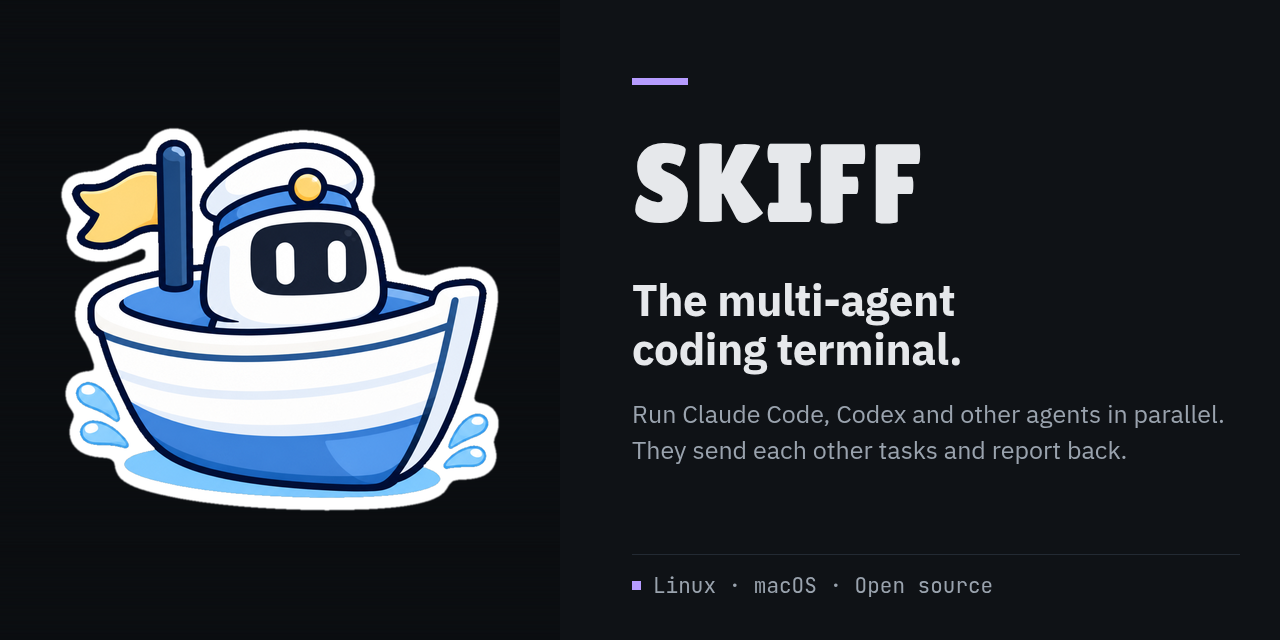
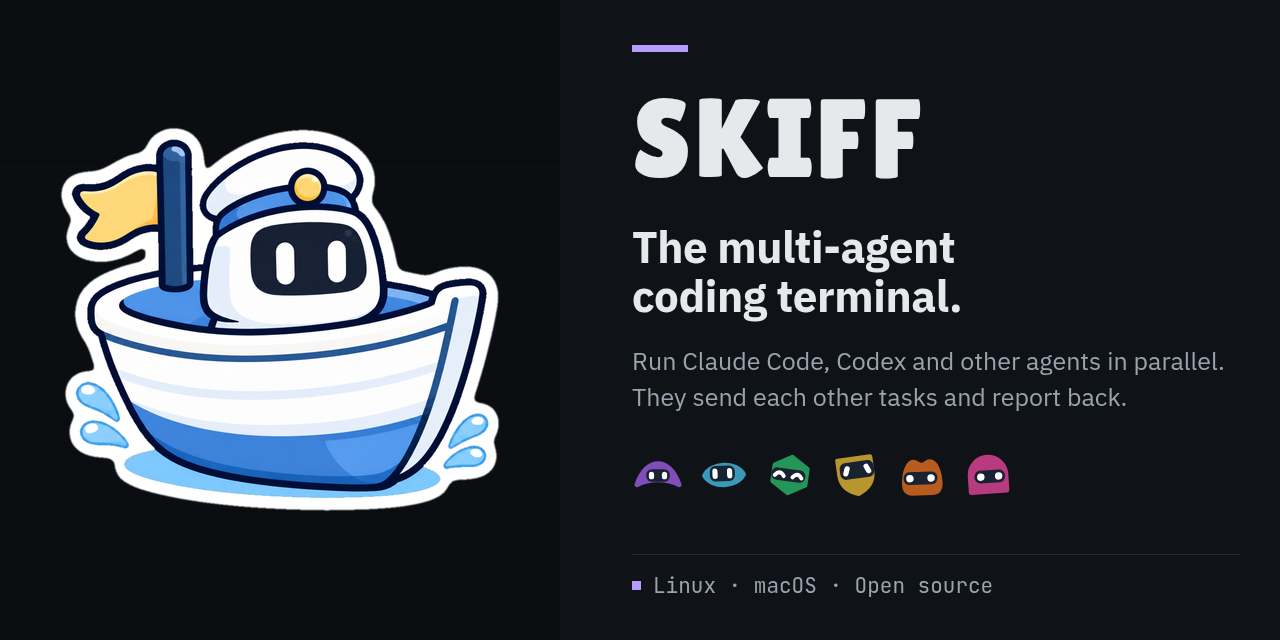
Home: the crew row of blinking Skipper faces in the hero and the social image
tools/crew.mjs writes Admiral and five Skippers, each in a theme's main
color, from tools/skipper-avatar.mjs (the app's generator at skiff 9dafcc2,
types stripped). The blink and glance CSS is the app's, still off under
prefers-reduced-motion. social-preview.png re-rendered, og:image ?v=5.

Changed region(s): [[0.4688, 0.125, 0.9688, 0.7812], [0.5, 0.0625, 0.5312, 0.0938]]

diff --git a/index.html b/index.html
@@ -10,7 +10,7 @@
 <meta property="og:type" content="website">
 <meta property="og:site_name" content="Skiff">
 <meta property="og:url" content="https://skiff.solutionscay.com/">
-<meta property="og:image" content="https://skiff.solutionscay.com/social-preview.png?v=4">
+<meta property="og:image" content="https://skiff.solutionscay.com/social-preview.png?v=5">
 <meta property="og:image:width" content="1280">
 <meta property="og:image:height" content="640">
 <meta property="og:image:alt" content="Skiff: the multi-agent coding terminal">
@@ -20,7 +20,7 @@
 <link rel="preconnect" href="https://fonts.googleapis.com">
 <link rel="preconnect" href="https://fonts.gstatic.com" crossorigin>
 <link href="https://fonts.googleapis.com/css2?family=IBM+Plex+Sans:wght@400;500;600;700&family=JetBrains+Mono:wght@400;600&family=Lilita+One&display=swap" rel="stylesheet">
-<link rel="stylesheet" href="site.css?v=cd16bebc">
+<link rel="stylesheet" href="site.css?v=b3203374">
 <script src="https://analytics.ahrefs.com/analytics.js" data-key="WBND0Nn9GdlmCPxIRT8H3Q" async></script>
 <script type="application/ld+json">
 {"@context":"https://schema.org","@type":"SoftwareApplication","name":"Skiff","description":"The multi-agent coding terminal. Run Claude Code, Codex and other agents in parallel on Linux and macOS. They send each other tasks and report back.","applicationCategory":"DeveloperApplication","operatingSystem":"Linux, macOS","license":"https://opensource.org/licenses/MIT","url":"https://skiff.solutionscay.com/","downloadUrl":"https://skiff.solutionscay.com/download/","offers":{"@type":"Offer","price":"0","priceCurrency":"USD"},"publisher":{"@type":"Organization","name":"Solutions Cay LLC","url":"https://solutionscay.com/"}}
@@ -58,6 +58,16 @@
     <div>
       <h1>The multi-agent coding terminal.</h1>
       <p>Run Claude Code, Codex and other agents in parallel. They send each other tasks and report back.</p>
+      <!-- crew -->
+      <div class="crew" role="img" aria-label="The Skiff crew: Admiral and five Skippers">
+        <span class="skipper-face" style="--pc:#b06cff"><svg viewBox="0 0 32 32" aria-hidden="true" style="--blink:4.1s;--blink-delay:-4.4s;--blink-anim:sk-blink;--glance:17s;--glance-delay:-1.2s;--glance-dx:1px"><path d="M3 22c3-9 8-13 13-13s10 4 13 13c-4-2-8.5-3-13-3s-9 1-13 3z" style="fill:color-mix(in srgb, var(--pc, var(--project-default)) 72%, #000);stroke:color-mix(in srgb, var(--pc, var(--project-default)) 72%, #000)" stroke-width="3" stroke-linejoin="round"/><rect x="8.8" y="12.4" width="14.4" height="7.8" rx="3.5" fill="#192230"/><g class="sk-look"><g class="sk-eyes" fill="#fff"><rect x="10.4" y="14" width="3.2" height="4.6" rx="1.6"/><rect x="18.4" y="14" width="3.2" height="4.6" rx="1.6"/></g></g></svg></span>
+        <span class="skipper-face" style="--pc:#4fd4ff"><svg viewBox="0 0 32 32" aria-hidden="true" style="--blink:4.4s;--blink-delay:-2.2s;--blink-anim:sk-blink;--glance:16s;--glance-delay:-13.7s;--glance-dx:-1px"><g transform="rotate(-2 16 16)"><path d="M4 16C8 8 24 8 28 16 24 24 8 24 4 16z" style="fill:color-mix(in srgb, var(--pc, var(--project-default)) 72%, #000);stroke:color-mix(in srgb, var(--pc, var(--project-default)) 72%, #000)" stroke-width="3" stroke-linejoin="round"/><rect x="7.300000000000001" y="10.2" width="15.399999999999999" height="9.600000000000001" rx="3.5" fill="#192230"/><g class="sk-look"><g class="sk-eyes" fill="#fff"><g transform="translate(10.5 15)"><rect x="-1.6" y="-3.2" width="3.2" height="6.4" rx="1.6"/></g><g transform="translate(19.5 15)"><rect x="-1.6" y="-3.2" width="3.2" height="6.4" rx="1.6"/></g></g></g></g></svg></span>
+        <span class="skipper-face" style="--pc:#34d07c"><svg viewBox="0 0 32 32" aria-hidden="true" style="--blink:7s;--blink-delay:-1.8s;--blink-anim:sk-blink2;--glance:14s;--glance-delay:-13s;--glance-dx:-1px"><g transform="rotate(8 16 16)"><path d="M16 5l10 6v10l-10 6-10-6V11z" style="fill:color-mix(in srgb, var(--pc, var(--project-default)) 72%, #000);stroke:color-mix(in srgb, var(--pc, var(--project-default)) 72%, #000)" stroke-width="3" stroke-linejoin="round"/><rect x="4.5" y="12.399999999999999" width="21" height="7.6000000000000005" rx="3.5" fill="#192230"/><g class="sk-look"><g class="sk-eyes" fill="#fff"><g transform="translate(9.5 16)"><path d="M-2.8 1.2q2.8-4 5.6 0" fill="none" stroke="#fff" stroke-width="2.4" stroke-linecap="round"/></g><g transform="translate(20.5 16)"><path d="M-2.8 1.2q2.8-4 5.6 0" fill="none" stroke="#fff" stroke-width="2.4" stroke-linecap="round"/></g></g></g></g></svg></span>
+        <span class="skipper-face" style="--pc:#ffcf3f"><svg viewBox="0 0 32 32" aria-hidden="true" style="--blink:4.4s;--blink-delay:-6.1s;--blink-anim:sk-blink;--glance:12s;--glance-delay:-8.8s;--glance-dx:-1px"><g transform="rotate(-8 16 16)"><path d="M6 6h20v9c0 6.5-4.5 10.5-10 12.5C10.5 25.5 6 21.5 6 15z" style="fill:color-mix(in srgb, var(--pc, var(--project-default)) 72%, #000);stroke:color-mix(in srgb, var(--pc, var(--project-default)) 72%, #000)" stroke-width="3" stroke-linejoin="round"/><rect x="6.5" y="7.85" width="21" height="10.3" rx="3.5" fill="#192230"/><g class="sk-look"><g class="sk-eyes" fill="#fff"><g transform="translate(10.5 13)"><rect x="-1.6" y="-3.2" width="3.2" height="6.4" rx="1.6" transform="rotate(22)"/></g><g transform="translate(23.5 13)"><rect x="-1.6" y="-3.2" width="3.2" height="6.4" rx="1.6" transform="rotate(-22)"/></g></g></g></g></svg></span>
+        <span class="skipper-face" style="--pc:#ff7f2a"><svg viewBox="0 0 32 32" aria-hidden="true" style="--blink:4.6s;--blink-delay:-6.7s;--blink-anim:sk-blink;--glance:13s;--glance-delay:-16.4s;--glance-dx:-1px"><g transform="rotate(-2 16 16)"><path d="M5 22c0-8 2.5-14 6-14 2 0 3 2 5 2s3-2 5-2c3.5 0 6 6 6 14 0 3-1.5 5-4.5 5h-13C6.5 27 5 25 5 22z" style="fill:color-mix(in srgb, var(--pc, var(--project-default)) 72%, #000);stroke:color-mix(in srgb, var(--pc, var(--project-default)) 72%, #000)" stroke-width="3" stroke-linejoin="round"/><rect x="4.6" y="14.1" width="20.8" height="7.8" rx="3.5" fill="#192230"/><g class="sk-look"><g class="sk-eyes" fill="#fff"><g transform="translate(8.5 18)"><circle r="2.3"/></g><g transform="translate(21.5 18)"><circle r="2.3"/></g></g></g></g></svg></span>
+        <span class="skipper-face" style="--pc:#ff52b0"><svg viewBox="0 0 32 32" aria-hidden="true" style="--blink:5.6s;--blink-delay:-0.9s;--blink-anim:sk-blink;--glance:16s;--glance-delay:-6.9s;--glance-dx:1px"><g transform="rotate(-4 16 16)"><path d="M5 26V16a11 11 0 0 1 22 0v10z" style="fill:color-mix(in srgb, var(--pc, var(--project-default)) 72%, #000);stroke:color-mix(in srgb, var(--pc, var(--project-default)) 72%, #000)" stroke-width="3" stroke-linejoin="round"/><rect x="7.6" y="13.1" width="18.8" height="7.8" rx="3.5" fill="#192230"/><g class="sk-look"><g class="sk-eyes" fill="#fff"><g transform="translate(11.5 17)"><circle r="2.3"/></g><g transform="translate(22.5 17)"><circle r="2.3"/></g></g></g></g></svg></span>
+      </div>
+      <!-- /crew -->
       <div class="get">
         <a class="btn main" href="download/">Download</a>
         <a class="btn" href="https://github.com/solutionscay/skiff">Source on GitHub</a>

diff --git a/tools/social-preview.html b/tools/social-preview.html
@@ -19,10 +19,13 @@
   .mascot img { display: block; }
   .copy { flex: 1; padding: 0 40px 24px 72px; display: flex; flex-direction: column; }
   .text { flex: 1; display: flex; flex-direction: column; justify-content: center; padding-bottom: 8px; }
-  .rule { width: 56px; height: 7px; background: #b69cff; margin-bottom: 42px; }
-  .mark { font-family: "Lilita One", sans-serif; font-weight: 400; font-size: 112px; line-height: 1; letter-spacing: 0.02em; text-transform: uppercase; color: #e6e8eb; margin-bottom: 36px; }
+  .rule { width: 56px; height: 7px; background: #b69cff; margin-bottom: 30px; }
+  .mark { font-family: "Lilita One", sans-serif; font-weight: 400; font-size: 112px; line-height: 1; letter-spacing: 0.02em; text-transform: uppercase; color: #e6e8eb; margin-bottom: 28px; }
   h1 { font-size: 44px; line-height: 1.12; font-weight: 700; letter-spacing: -0.01em; color: #e6e8eb; margin-bottom: 22px; }
   p { font-size: 25px; line-height: 1.45; font-weight: 400; color: #9aa3ae; }
+  .crew { display: flex; gap: 14px; margin-top: 34px; }
+  .crew .skipper-face { width: 52px; height: 52px; }
+  .crew svg { display: block; width: 100%; height: 100%; }
   .foot { height: 62px; border-top: 1px solid #232a33; display: flex; align-items: center; gap: 12px; font-family: "JetBrains Mono", ui-monospace, monospace; font-size: 21px; color: #9aa3ae; }
   .foot i { width: 9px; height: 9px; background: #b69cff; }
 </style>
@@ -35,6 +38,16 @@
     <div class="mark">Skiff</div>
     <h1>The multi-agent<br>coding terminal.</h1>
     <p>Run Claude Code, Codex and other agents in parallel.<br>They send each other tasks and report back.</p>
+    <!-- crew -->
+    <div class="crew" role="img" aria-label="The Skiff crew: Admiral and five Skippers">
+      <span class="skipper-face" style="--pc:#b06cff"><svg viewBox="0 0 32 32" aria-hidden="true" style="--blink:4.1s;--blink-delay:-4.4s;--blink-anim:sk-blink;--glance:17s;--glance-delay:-1.2s;--glance-dx:1px"><path d="M3 22c3-9 8-13 13-13s10 4 13 13c-4-2-8.5-3-13-3s-9 1-13 3z" style="fill:color-mix(in srgb, var(--pc, var(--project-default)) 72%, #000);stroke:color-mix(in srgb, var(--pc, var(--project-default)) 72%, #000)" stroke-width="3" stroke-linejoin="round"/><rect x="8.8" y="12.4" width="14.4" height="7.8" rx="3.5" fill="#192230"/><g class="sk-look"><g class="sk-eyes" fill="#fff"><rect x="10.4" y="14" width="3.2" height="4.6" rx="1.6"/><rect x="18.4" y="14" width="3.2" height="4.6" rx="1.6"/></g></g></svg></span>
+      <span class="skipper-face" style="--pc:#4fd4ff"><svg viewBox="0 0 32 32" aria-hidden="true" style="--blink:4.4s;--blink-delay:-2.2s;--blink-anim:sk-blink;--glance:16s;--glance-delay:-13.7s;--glance-dx:-1px"><g transform="rotate(-2 16 16)"><path d="M4 16C8 8 24 8 28 16 24 24 8 24 4 16z" style="fill:color-mix(in srgb, var(--pc, var(--project-default)) 72%, #000);stroke:color-mix(in srgb, var(--pc, var(--project-default)) 72%, #000)" stroke-width="3" stroke-linejoin="round"/><rect x="7.300000000000001" y="10.2" width="15.399999999999999" height="9.600000000000001" rx="3.5" fill="#192230"/><g class="sk-look"><g class="sk-eyes" fill="#fff"><g transform="translate(10.5 15)"><rect x="-1.6" y="-3.2" width="3.2" height="6.4" rx="1.6"/></g><g transform="translate(19.5 15)"><rect x="-1.6" y="-3.2" width="3.2" height="6.4" rx="1.6"/></g></g></g></g></svg></span>
+      <span class="skipper-face" style="--pc:#34d07c"><svg viewBox="0 0 32 32" aria-hidden="true" style="--blink:7s;--blink-delay:-1.8s;--blink-anim:sk-blink2;--glance:14s;--glance-delay:-13s;--glance-dx:-1px"><g transform="rotate(8 16 16)"><path d="M16 5l10 6v10l-10 6-10-6V11z" style="fill:color-mix(in srgb, var(--pc, var(--project-default)) 72%, #000);stroke:color-mix(in srgb, var(--pc, var(--project-default)) 72%, #000)" stroke-width="3" stroke-linejoin="round"/><rect x="4.5" y="12.399999999999999" width="21" height="7.6000000000000005" rx="3.5" fill="#192230"/><g class="sk-look"><g class="sk-eyes" fill="#fff"><g transform="translate(9.5 16)"><path d="M-2.8 1.2q2.8-4 5.6 0" fill="none" stroke="#fff" stroke-width="2.4" stroke-linecap="round"/></g><g transform="translate(20.5 16)"><path d="M-2.8 1.2q2.8-4 5.6 0" fill="none" stroke="#fff" stroke-width="2.4" stroke-linecap="round"/></g></g></g></g></svg></span>
+      <span class="skipper-face" style="--pc:#ffcf3f"><svg viewBox="0 0 32 32" aria-hidden="true" style="--blink:4.4s;--blink-delay:-6.1s;--blink-anim:sk-blink;--glance:12s;--glance-delay:-8.8s;--glance-dx:-1px"><g transform="rotate(-8 16 16)"><path d="M6 6h20v9c0 6.5-4.5 10.5-10 12.5C10.5 25.5 6 21.5 6 15z" style="fill:color-mix(in srgb, var(--pc, var(--project-default)) 72%, #000);stroke:color-mix(in srgb, var(--pc, var(--project-default)) 72%, #000)" stroke-width="3" stroke-linejoin="round"/><rect x="6.5" y="7.85" width="21" height="10.3" rx="3.5" fill="#192230"/><g class="sk-look"><g class="sk-eyes" fill="#fff"><g transform="translate(10.5 13)"><rect x="-1.6" y="-3.2" width="3.2" height="6.4" rx="1.6" transform="rotate(22)"/></g><g transform="translate(23.5 13)"><rect x="-1.6" y="-3.2" width="3.2" height="6.4" rx="1.6" transform="rotate(-22)"/></g></g></g></g></svg></span>
+      <span class="skipper-face" style="--pc:#ff7f2a"><svg viewBox="0 0 32 32" aria-hidden="true" style="--blink:4.6s;--blink-delay:-6.7s;--blink-anim:sk-blink;--glance:13s;--glance-delay:-16.4s;--glance-dx:-1px"><g transform="rotate(-2 16 16)"><path d="M5 22c0-8 2.5-14 6-14 2 0 3 2 5 2s3-2 5-2c3.5 0 6 6 6 14 0 3-1.5 5-4.5 5h-13C6.5 27 5 25 5 22z" style="fill:color-mix(in srgb, var(--pc, var(--project-default)) 72%, #000);stroke:color-mix(in srgb, var(--pc, var(--project-default)) 72%, #000)" stroke-width="3" stroke-linejoin="round"/><rect x="4.6" y="14.1" width="20.8" height="7.8" rx="3.5" fill="#192230"/><g class="sk-look"><g class="sk-eyes" fill="#fff"><g transform="translate(8.5 18)"><circle r="2.3"/></g><g transform="translate(21.5 18)"><circle r="2.3"/></g></g></g></g></svg></span>
+      <span class="skipper-face" style="--pc:#ff52b0"><svg viewBox="0 0 32 32" aria-hidden="true" style="--blink:5.6s;--blink-delay:-0.9s;--blink-anim:sk-blink;--glance:16s;--glance-delay:-6.9s;--glance-dx:1px"><g transform="rotate(-4 16 16)"><path d="M5 26V16a11 11 0 0 1 22 0v10z" style="fill:color-mix(in srgb, var(--pc, var(--project-default)) 72%, #000);stroke:color-mix(in srgb, var(--pc, var(--project-default)) 72%, #000)" stroke-width="3" stroke-linejoin="round"/><rect x="7.6" y="13.1" width="18.8" height="7.8" rx="3.5" fill="#192230"/><g class="sk-look"><g class="sk-eyes" fill="#fff"><g transform="translate(11.5 17)"><circle r="2.3"/></g><g transform="translate(22.5 17)"><circle r="2.3"/></g></g></g></g></svg></span>
+    </div>
+    <!-- /crew -->
   </div>
   <div class="foot"><i></i>Linux · macOS · Open source</div>
 </div>

diff --git a/site.css b/site.css
@@ -52,6 +52,17 @@ code { font-family: var(--mono); font-size: 0.88em; color: var(--text); }
 .hero h1 { margin: 0 0 16px; color: var(--text); font-size: clamp(32px, 5vw, 48px); line-height: 1.12; font-weight: 700; letter-spacing: -0.01em; text-wrap: balance; }
 .hero p { margin: 0 0 8px; max-width: 38em; font-size: 17px; text-wrap: pretty; }
 .hero .mascot { width: 200px; height: 200px; }
+/* The crew: Admiral and five Skippers, from tools/crew.mjs. The blink and
+   glance are the app's (apps/desktop/src/styles/skippers.css). */
+.crew { margin-top: 24px; display: flex; flex-wrap: wrap; gap: 12px; }
+.crew .skipper-face { width: 44px; height: 44px; line-height: 0; }
+.crew svg { display: block; width: 100%; height: 100%; }
+.skipper-face .sk-eyes { transform-box: fill-box; transform-origin: center; animation: var(--blink-anim, sk-blink) var(--blink, 5s) var(--blink-delay, 0s) infinite steps(1, end); }
+.skipper-face .sk-look { animation: sk-glance var(--glance, 16s) var(--glance-delay, 0s) infinite steps(1, end); }
+@keyframes sk-blink { 0% { transform: scaleY(1); } 97.4% { transform: scaleY(0.1); } 100% { transform: scaleY(1); } }
+@keyframes sk-blink2 { 0% { transform: scaleY(1); } 93.6% { transform: scaleY(0.1); } 95.4% { transform: scaleY(1); } 97.4% { transform: scaleY(0.1); } 100% { transform: scaleY(1); } }
+@keyframes sk-glance { 0% { transform: translateX(0); } 93% { transform: translateX(var(--glance-dx, 1px)); } 98% { transform: translateX(0); } }
+@media (prefers-reduced-motion: reduce) { .skipper-face :is(.sk-eyes, .sk-look) { animation: none; } }
 .get { margin-top: 28px; display: flex; flex-wrap: wrap; gap: 8px; }
 .btn { height: var(--row); padding: 0 18px; display: inline-flex; align-items: center; gap: 8px; border: 1px solid var(--rule-strong); background: var(--bg-raised); color: var(--text); font: 600 14px var(--font); text-decoration: none; }
 .btn:hover { background: color-mix(in srgb, var(--accent) 22%, var(--bg-raised)); }

diff --git a/guides/index.html b/guides/index.html
@@ -10,7 +10,7 @@
 <meta property="og:type" content="website">
 <meta property="og:site_name" content="Skiff">
 <meta property="og:url" content="https://skiff.solutionscay.com/guides/">
-<meta property="og:image" content="https://skiff.solutionscay.com/social-preview.png?v=4">
+<meta property="og:image" content="https://skiff.solutionscay.com/social-preview.png?v=5">
 <meta property="og:image:width" content="1280">
 <meta property="og:image:height" content="640">
 <meta property="og:image:alt" content="Skiff: the multi-agent coding terminal">
@@ -20,7 +20,7 @@
 <link rel="preconnect" href="https://fonts.googleapis.com">
 <link rel="preconnect" href="https://fonts.gstatic.com" crossorigin>
 <link href="https://fonts.googleapis.com/css2?family=IBM+Plex+Sans:wght@400;500;600;700&family=JetBrains+Mono:wght@400;600&family=Lilita+One&display=swap" rel="stylesheet">
-<link rel="stylesheet" href="../site.css?v=cd16bebc">
+<link rel="stylesheet" href="../site.css?v=b3203374">
 <script src="https://analytics.ahrefs.com/analytics.js" data-key="WBND0Nn9GdlmCPxIRT8H3Q" async></script>
 <script type="application/ld+json">
 {"@context":"https://schema.org","@type":"CollectionPage","name":"Skiff guides","url":"https://skiff.solutionscay.com/guides/","publisher":{"@type":"Organization","name":"Solutions Cay LLC","url":"https://solutionscay.com/"},"mainEntity":{"@type":"ItemList","itemListElement":[{"@type":"ListItem","position":1,"url":"https://skiff.solutionscay.com/guides/skiff-user-guide/"},{"@type":"ListItem","position":2,"url":"https://skiff.solutionscay.com/guides/run-coding-agents-in-parallel/"},{"@type":"ListItem","position":3,"url":"https://skiff.solutionscay.com/guides/keep-agent-sessions-running/"},{"@type":"ListItem","position":4,"url":"https://skiff.solutionscay.com/guides/git-worktrees-for-coding-agents/"}]}}

diff --git a/download/index.html b/download/index.html
@@ -10,7 +10,7 @@
 <meta property="og:type" content="website">
 <meta property="og:site_name" content="Skiff">
 <meta property="og:url" content="https://skiff.solutionscay.com/download/">
-<meta property="og:image" content="https://skiff.solutionscay.com/social-preview.png?v=4">
+<meta property="og:image" content="https://skiff.solutionscay.com/social-preview.png?v=5">
 <meta property="og:image:width" content="1280">
 <meta property="og:image:height" content="640">
 <meta property="og:image:alt" content="Skiff: the multi-agent coding terminal">
@@ -20,7 +20,7 @@
 <link rel="preconnect" href="https://fonts.googleapis.com">
 <link rel="preconnect" href="https://fonts.gstatic.com" crossorigin>
 <link href="https://fonts.googleapis.com/css2?family=IBM+Plex+Sans:wght@400;500;600;700&family=JetBrains+Mono:wght@400;600&family=Lilita+One&display=swap" rel="stylesheet">
-<link rel="stylesheet" href="../site.css?v=cd16bebc">
+<link rel="stylesheet" href="../site.css?v=b3203374">
 <script src="https://analytics.ahrefs.com/analytics.js" data-key="WBND0Nn9GdlmCPxIRT8H3Q" async></script>
 <script type="application/ld+json">
 {"@context":"https://schema.org","@type":"SoftwareApplication","name":"Skiff","description":"The multi-agent coding terminal. Run Claude Code, Codex and other agents in parallel on Linux and macOS. They send each other tasks and report back.","applicationCategory":"DeveloperApplication","operatingSystem":"Linux, macOS","license":"https://opensource.org/licenses/MIT","url":"https://skiff.solutionscay.com/","downloadUrl":"https://skiff.solutionscay.com/download/","offers":{"@type":"Offer","price":"0","priceCurrency":"USD"},"publisher":{"@type":"Organization","name":"Solutions Cay LLC","url":"https://solutionscay.com/"}}

diff --git a/guides/run-coding-agents-in-parallel/index.html b/guides/run-coding-agents-in-parallel/index.html
@@ -10,7 +10,7 @@
 <meta property="og:type" content="article">
 <meta property="og:site_name" content="Skiff">
 <meta property="og:url" content="https://skiff.solutionscay.com/guides/run-coding-agents-in-parallel/">
-<meta property="og:image" content="https://skiff.solutionscay.com/social-preview.png?v=4">
+<meta property="og:image" content="https://skiff.solutionscay.com/social-preview.png?v=5">
 <meta property="og:image:width" content="1280">
 <meta property="og:image:height" content="640">
 <meta property="og:image:alt" content="Skiff: the multi-agent coding terminal">
@@ -20,7 +20,7 @@
 <link rel="preconnect" href="https://fonts.googleapis.com">
 <link rel="preconnect" href="https://fonts.gstatic.com" crossorigin>
 <link href="https://fonts.googleapis.com/css2?family=IBM+Plex+Sans:wght@400;500;600;700&family=JetBrains+Mono:wght@400;600&family=Lilita+One&display=swap" rel="stylesheet">
-<link rel="stylesheet" href="../../site.css?v=cd16bebc">
+<link rel="stylesheet" href="../../site.css?v=b3203374">
 <script src="https://analytics.ahrefs.com/analytics.js" data-key="WBND0Nn9GdlmCPxIRT8H3Q" async></script>
 <script type="application/ld+json">
 {"@context":"https://schema.org","@type":"TechArticle","headline":"Run coding agents in parallel: a practical guide","description":"How to run Claude Code, Codex and other coding agents in parallel: pick tasks that don't overlap, give each agent a worktree, know which one needs you, and merge the results.","datePublished":"2026-10-06","dateModified":"2026-10-26","author":{"@type":"Organization","name":"Solutions Cay LLC","url":"https://solutionscay.com/"},"mainEntityOfPage":"https://skiff.solutionscay.com/guides/run-coding-agents-in-parallel/"}

diff --git a/guides/git-worktrees-for-coding-agents/index.html b/guides/git-worktrees-for-coding-agents/index.html
@@ -10,7 +10,7 @@
 <meta property="og:type" content="article">
 <meta property="og:site_name" content="Skiff">
 <meta property="og:url" content="https://skiff.solutionscay.com/guides/git-worktrees-for-coding-agents/">
-<meta property="og:image" content="https://skiff.solutionscay.com/social-preview.png?v=4">
+<meta property="og:image" content="https://skiff.solutionscay.com/social-preview.png?v=5">
 <meta property="og:image:width" content="1280">
 <meta property="og:image:height" content="640">
 <meta property="og:image:alt" content="Skiff: the multi-agent coding terminal">
@@ -20,7 +20,7 @@
 <link rel="preconnect" href="https://fonts.googleapis.com">
 <link rel="preconnect" href="https://fonts.gstatic.com" crossorigin>
 <link href="https://fonts.googleapis.com/css2?family=IBM+Plex+Sans:wght@400;500;600;700&family=JetBrains+Mono:wght@400;600&family=Lilita+One&display=swap" rel="stylesheet">
-<link rel="stylesheet" href="../../site.css?v=cd16bebc">
+<link rel="stylesheet" href="../../site.css?v=b3203374">
 <script src="https://analytics.ahrefs.com/analytics.js" data-key="WBND0Nn9GdlmCPxIRT8H3Q" async></script>
 <script type="application/ld+json">
 {"@context":"https://schema.org","@type":"TechArticle","headline":"Git worktrees for coding agents: a practical guide","description":"How to use git worktrees to run Claude Code, Codex and other coding agents in parallel without edits colliding: the commands, the pitfalls, and how to clean up.","datePublished":"2026-10-05","dateModified":"2026-10-26","author":{"@type":"Organization","name":"Solutions Cay LLC","url":"https://solutionscay.com/"},"mainEntityOfPage":"https://skiff.solutionscay.com/guides/git-worktrees-for-coding-agents/"}

diff --git a/guides/keep-agent-sessions-running/index.html b/guides/keep-agent-sessions-running/index.html
@@ -10,7 +10,7 @@
 <meta property="og:type" content="article">
 <meta property="og:site_name" content="Skiff">
 <meta property="og:url" content="https://skiff.solutionscay.com/guides/keep-agent-sessions-running/">
-<meta property="og:image" content="https://skiff.solutionscay.com/social-preview.png?v=4">
+<meta property="og:image" content="https://skiff.solutionscay.com/social-preview.png?v=5">
 <meta property="og:image:width" content="1280">
 <meta property="og:image:height" content="640">
 <meta property="og:image:alt" content="Skiff: the multi-agent coding terminal">
@@ -20,7 +20,7 @@
 <link rel="preconnect" href="https://fonts.googleapis.com">
 <link rel="preconnect" href="https://fonts.gstatic.com" crossorigin>
 <link href="https://fonts.googleapis.com/css2?family=IBM+Plex+Sans:wght@400;500;600;700&family=JetBrains+Mono:wght@400;600&family=Lilita+One&display=swap" rel="stylesheet">
-<link rel="stylesheet" href="../../site.css?v=cd16bebc">
+<link rel="stylesheet" href="../../site.css?v=b3203374">
 <script src="https://analytics.ahrefs.com/analytics.js" data-key="WBND0Nn9GdlmCPxIRT8H3Q" async></script>
 <script type="application/ld+json">
 {"@context":"https://schema.org","@type":"TechArticle","headline":"Keep coding agent sessions running after you close the terminal","description":"How to keep Claude Code, Codex and other agents running when the terminal closes: tmux, non-interactive modes, what a reboot ends, and how to resume.","datePublished":"2026-10-06","dateModified":"2026-10-26","author":{"@type":"Organization","name":"Solutions Cay LLC","url":"https://solutionscay.com/"},"mainEntityOfPage":"https://skiff.solutionscay.com/guides/keep-agent-sessions-running/"}

diff --git a/guides/skiff-user-guide/focus-mode-and-mission-control/index.html b/guides/skiff-user-guide/focus-mode-and-mission-control/index.html
@@ -10,7 +10,7 @@
 <meta property="og:type" content="article">
 <meta property="og:site_name" content="Skiff">
 <meta property="og:url" content="https://skiff.solutionscay.com/guides/skiff-user-guide/focus-mode-and-mission-control/">
-<meta property="og:image" content="https://skiff.solutionscay.com/social-preview.png?v=4">
+<meta property="og:image" content="https://skiff.solutionscay.com/social-preview.png?v=5">
 <meta property="og:image:width" content="1280">
 <meta property="og:image:height" content="640">
 <meta property="og:image:alt" content="Skiff: the multi-agent coding terminal">
@@ -20,7 +20,7 @@
 <link rel="preconnect" href="https://fonts.googleapis.com">
 <link rel="preconnect" href="https://fonts.gstatic.com" crossorigin>
 <link href="https://fonts.googleapis.com/css2?family=IBM+Plex+Sans:wght@400;500;600;700&family=JetBrains+Mono:wght@400;600&family=Lilita+One&display=swap" rel="stylesheet">
-<link rel="stylesheet" href="../../../site.css?v=cd16bebc">
+<link rel="stylesheet" href="../../../site.css?v=b3203374">
 <link rel="stylesheet" href="../../../guides/skiff-user-guide/guide.css?v=bf780e4e">
 <script src="https://analytics.ahrefs.com/analytics.js" data-key="WBND0Nn9GdlmCPxIRT8H3Q" async></script>
 <script type="application/ld+json">

diff --git a/guides/skiff-user-guide/side-panel-diffs-and-files/index.html b/guides/skiff-user-guide/side-panel-diffs-and-files/index.html
@@ -10,7 +10,7 @@
 <meta property="og:type" content="article">
 <meta property="og:site_name" content="Skiff">
 <meta property="og:url" content="https://skiff.solutionscay.com/guides/skiff-user-guide/side-panel-diffs-and-files/">
-<meta property="og:image" content="https://skiff.solutionscay.com/social-preview.png?v=4">
+<meta property="og:image" content="https://skiff.solutionscay.com/social-preview.png?v=5">
 <meta property="og:image:width" content="1280">
 <meta property="og:image:height" content="640">
 <meta property="og:image:alt" content="Skiff: the multi-agent coding terminal">
@@ -20,7 +20,7 @@
 <link rel="preconnect" href="https://fonts.googleapis.com">
 <link rel="preconnect" href="https://fonts.gstatic.com" crossorigin>
 <link href="https://fonts.googleapis.com/css2?family=IBM+Plex+Sans:wght@400;500;600;700&family=JetBrains+Mono:wght@400;600&family=Lilita+One&display=swap" rel="stylesheet">
-<link rel="stylesheet" href="../../../site.css?v=cd16bebc">
+<link rel="stylesheet" href="../../../site.css?v=b3203374">
 <link rel="stylesheet" href="../../../guides/skiff-user-guide/guide.css?v=bf780e4e">
 <script src="https://analytics.ahrefs.com/analytics.js" data-key="WBND0Nn9GdlmCPxIRT8H3Q" async></script>
 <script type="application/ld+json">

diff --git a/guides/skiff-user-guide/projects-and-fleets/index.html b/guides/skiff-user-guide/projects-and-fleets/index.html
@@ -10,7 +10,7 @@
 <meta property="og:type" content="article">
 <meta property="og:site_name" content="Skiff">
 <meta property="og:url" content="https://skiff.solutionscay.com/guides/skiff-user-guide/projects-and-fleets/">
-<meta property="og:image" content="https://skiff.solutionscay.com/social-preview.png?v=4">
+<meta property="og:image" content="https://skiff.solutionscay.com/social-preview.png?v=5">
 <meta property="og:image:width" content="1280">
 <meta property="og:image:height" content="640">
 <meta property="og:image:alt" content="Skiff: the multi-agent coding terminal">
@@ -20,7 +20,7 @@
 <link rel="preconnect" href="https://fonts.googleapis.com">
 <link rel="preconnect" href="https://fonts.gstatic.com" crossorigin>
 <link href="https://fonts.googleapis.com/css2?family=IBM+Plex+Sans:wght@400;500;600;700&family=JetBrains+Mono:wght@400;600&family=Lilita+One&display=swap" rel="stylesheet">
-<link rel="stylesheet" href="../../../site.css?v=cd16bebc">
+<link rel="stylesheet" href="../../../site.css?v=b3203374">
 <link rel="stylesheet" href="../../../guides/skiff-user-guide/guide.css?v=bf780e4e">
 <script src="https://analytics.ahrefs.com/analytics.js" data-key="WBND0Nn9GdlmCPxIRT8H3Q" async></script>
 <script type="application/ld+json">

diff --git a/guides/skiff-user-guide/sessions-and-groups/index.html b/guides/skiff-user-guide/sessions-and-groups/index.html
@@ -10,7 +10,7 @@
 <meta property="og:type" content="article">
 <meta property="og:site_name" content="Skiff">
 <meta property="og:url" content="https://skiff.solutionscay.com/guides/skiff-user-guide/sessions-and-groups/">
-<meta property="og:image" content="https://skiff.solutionscay.com/social-preview.png?v=4">
+<meta property="og:image" content="https://skiff.solutionscay.com/social-preview.png?v=5">
 <meta property="og:image:width" content="1280">
 <meta property="og:image:height" content="640">
 <meta property="og:image:alt" content="Skiff: the multi-agent coding terminal">
@@ -20,7 +20,7 @@
 <link rel="preconnect" href="https://fonts.googleapis.com">
 <link rel="preconnect" href="https://fonts.gstatic.com" crossorigin>
 <link href="https://fonts.googleapis.com/css2?family=IBM+Plex+Sans:wght@400;500;600;700&family=JetBrains+Mono:wght@400;600&family=Lilita+One&display=swap" rel="stylesheet">
-<link rel="stylesheet" href="../../../site.css?v=cd16bebc">
+<link rel="stylesheet" href="../../../site.css?v=b3203374">
 <link rel="stylesheet" href="../../../guides/skiff-user-guide/guide.css?v=bf780e4e">
 <script src="https://analytics.ahrefs.com/analytics.js" data-key="WBND0Nn9GdlmCPxIRT8H3Q" async></script>
 <script type="application/ld+json">
